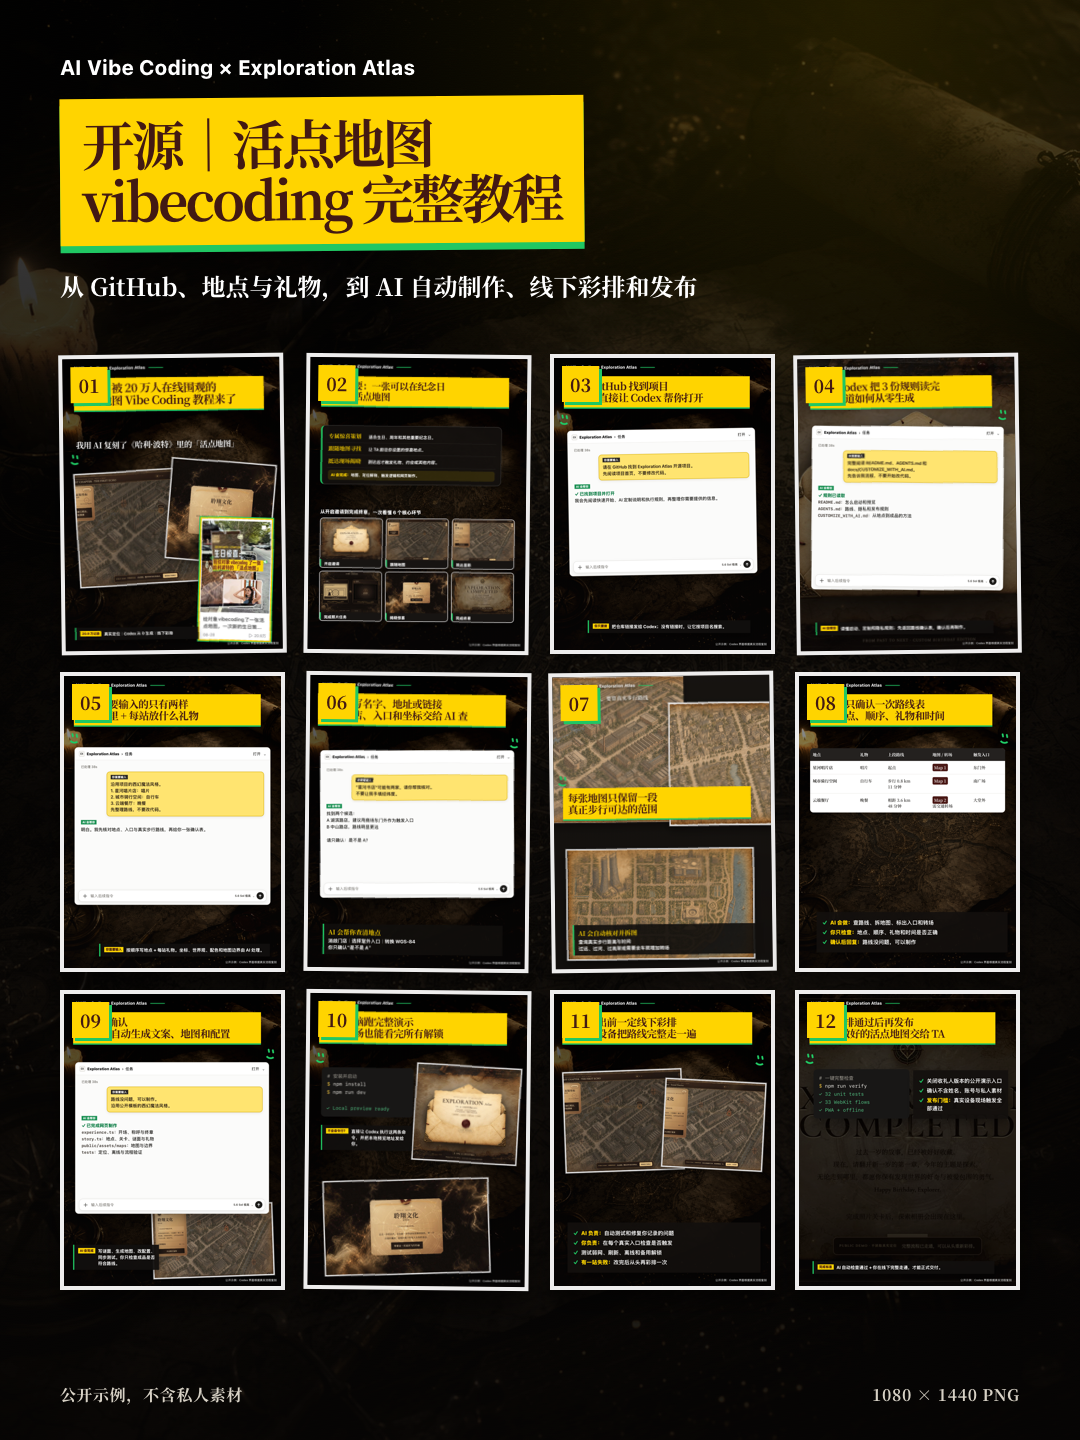
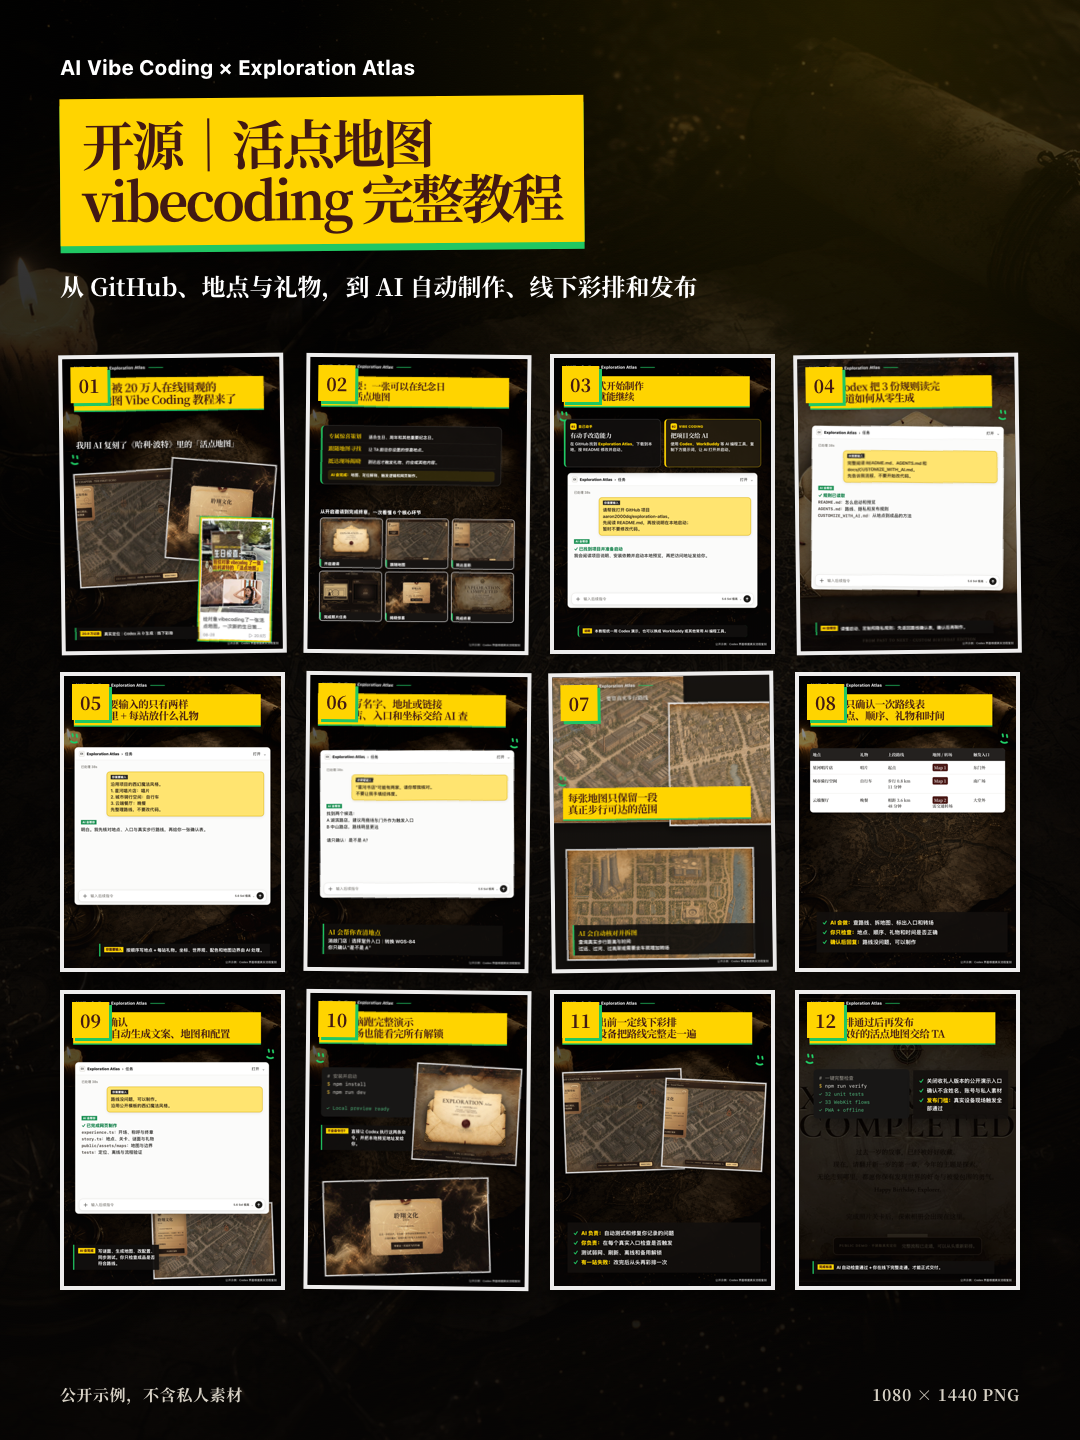
Explain two ways to start the tutorial

Changed region(s): [[0.5194, 0.25, 0.7028, 0.4375]]

diff --git a/docs/AI_VIBE_CODING_TUTORIAL.md b/docs/AI_VIBE_CODING_TUTORIAL.md
@@ -24,11 +24,20 @@
 
 这是一张可以在纪念日使用的活点地图。它适合生日、周年和其他重要日子：TA 从开启邀请开始，跟随地图寻找你设置的地点，抵达后触发照片任务与惊喜揭晓，最后完成整场探索。你决定地点与惊喜，AI 负责地图、定位解锁、触发逻辑和网页制作。
 
-## 03｜在 GitHub 找到项目
+## 03｜选择一种开始方式
 
 ![让 Codex 在 GitHub 找到项目](tutorial/03-find-on-github.png)
 
-把本仓库链接交给 Codex；如果只记得项目名称，也可以让 Codex 搜索后请你确认。
+有动手改造能力，可以在 GitHub 找到 Exploration Atlas，下载到本地，按 README 修改并启动。
+
+想借助 Vibe Coding，可以使用 Codex、WorkBuddy 等 AI 编程工具，把下面这句话复制给它：
+
+```text
+请帮我打开 GitHub 项目 aaron2000dq/exploration-atlas。
+先阅读 README.md，再按说明在本地启动；暂时不要修改代码。
+```
+
+AI 会阅读项目说明、安装依赖、启动本地预览，并把访问地址发给你。本教程统一用 Codex 演示，也可以换成其他常用 AI 编程工具。
 
 ## 04｜让 Codex 先读项目规则
 
